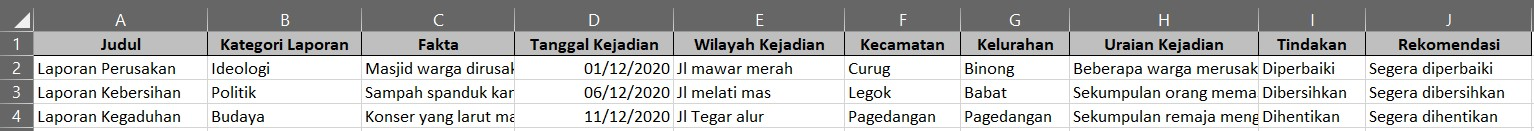
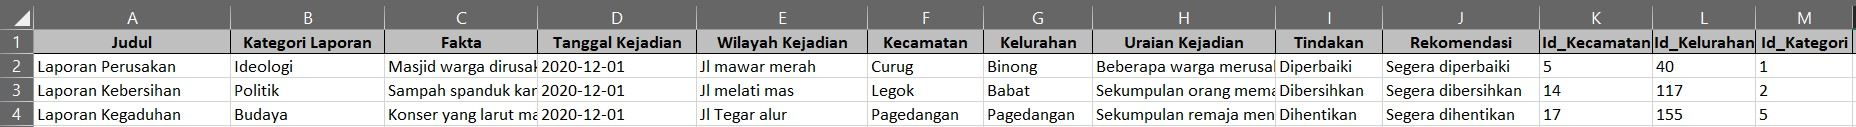
update rules of import file

diff --git a/src/views/LihatLaporan.vue b/src/views/LihatLaporan.vue
@@ -222,14 +222,13 @@
                 <v-img class="mb-3" src="@/assets/format_import_excel.jpg" alt="" max-height="100%" max-width="100%" />
                 <h3 class="black--text">Daftar Tab Import File Excel</h3>
                 <v-img class="mb-3" src="@/assets/tab_format_import.jpg" alt="" max-height="50%" max-width="50%" />
-                <p class="mb-3 black--text">Data laporan terbaca mulai baris kedua, baris pertama digunakan untuk judul.
-                  <br>
-                  Format field :
+                <p class="mb-3 black--text">Data laporan terbaca mulai baris kedua, baris pertama digunakan untuk judul. <strong>Ketentuan pengisian dan format field Ketentuan pengisian dan format field :</strong>
                   <ol>
                     <li>Kategori Laporan : Ideologi, Politik, Ekonomi, Sosial, dan Budaya</li>
-                    <li>Tanggal Kejadian : Tanggal/Bulan/Tahun</li>
+                    <li>Tanggal Kejadian : Tahun-Tanggal-Bulan</li>
                     <li>Kecamatan : Harus terdaftar didalam tab "Kecamatan"</li>
                     <li>Kelurahan : Harus terdaftar didalam tab "Kelurahan"</li>
+                    <li>Seluruh kolom ini (Judul,	Kategori Laporan, Fakta, Tanggal Kejadian, Wilayah Kejadian, Kecamatan, Kelurahan, Uraian, Kejadian, Tindakan, Rekomendasi, Id_Kecamatan, Id_Kelurahan, Id_Kategori) harus berformat <strong>"Text"</strong>.</li>
                   </ol>
                 </p>
                 <v-btn @click="onDownloadTemplateImport">Download File Format</v-btn>
@@ -441,7 +440,7 @@ export default {
       })
     },
     onDownloadTemplateImport() {
-      const pathFile = `/template_import/template_import_laporan_testing.xlsx`
+      const pathFile = `/template_import/template_import_laporan.xlsx`
       window.location = client.defaults.baseURL+pathFile.substring(1)
     },
     onImportFile(){
